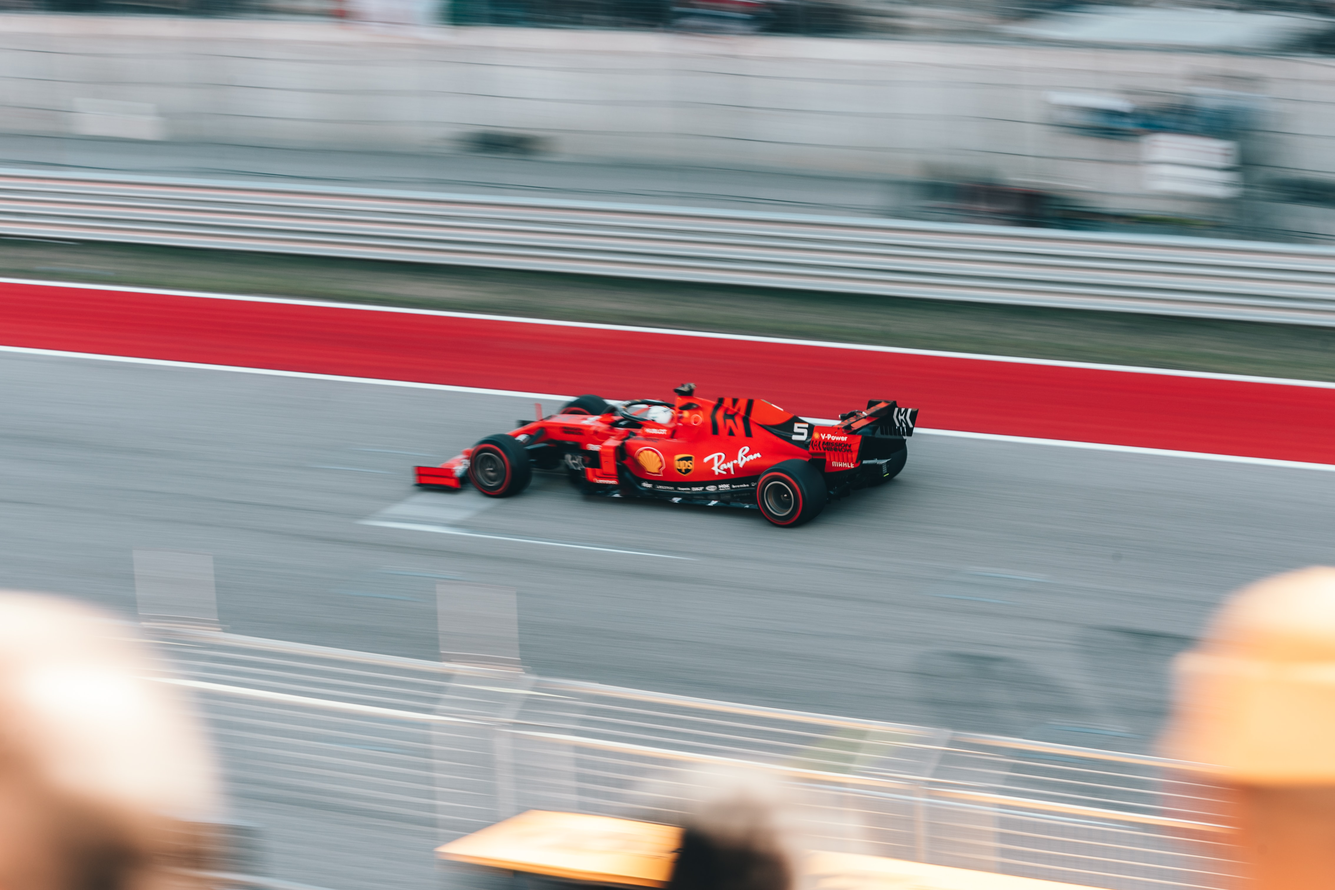
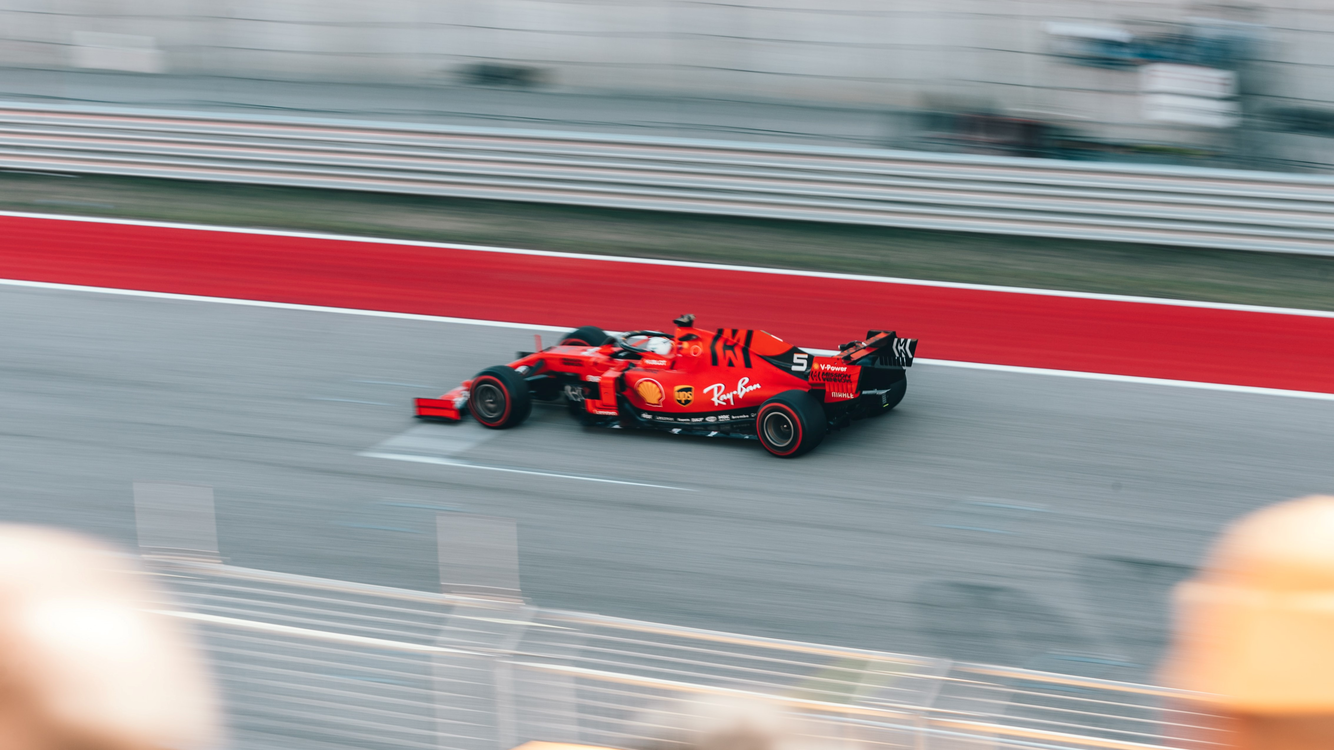
resposive pics, more text

diff --git a/index.html b/index.html
@@ -200,8 +200,8 @@
       <section class="resume-section p-3 p-lg-5 d-flex flex-column" id="skills">
         <div class="my-auto">
           <h2 class="mb-5">Skills</h2>
-          <p class="mb-5">develop content, speak 3 language, time management, experience with react and trails.  great at time management, admin skills
-            I am a seasoned software expert who has developed products for enterprise clients such. </p>
+          <p class="mb-5">I am a junior software developer, currently enrolled in the LEARN academy bootcamp. I have a background in business and customer service, I speak three languages and because of my multicultural background this industry gives me the opportunity to leverage my experience living with and working with a diverse group of people from different backgrounds and cultures. I consider myself a creative person so I tend to enjoy the front end more than the backend. I think I have a lot to bring to the front end with my minimalist style. I also enjoy the back end and view it more of a challenge since it has a lot of problem solving concepts, using more logic and less creativity. Being able to incorporate this in my professional life would be a dream and would fulfill my goal in life.
+          </p>
             <ul>
             <br>
 
@@ -232,73 +232,39 @@
               <i class="devicon-css3-plain-wordmark colored"></i>
             </li>
           </ul>
-
-          <!-- <div class="subheading mb-3">Workflow</div>
+          <br>
+          <div class="subheading mb-3">Transferable skills</div>
           <ul class="fa-ul mb-0">
             <li>
               <i class="fa-li fa fa-check"></i>
-              Mobile-First, Responsive Design</li>
+              Creative thinking</li>
             <li>
               <i class="fa-li fa fa-check"></i>
-              Cross Browser Testing &amp; Debugging</li>
+              Responsibility</li>
             <li>
               <i class="fa-li fa fa-check"></i>
-              Cross Functional Teams</li>
+              Accountability</li>
             <li>
               <i class="fa-li fa fa-check"></i>
-              Agile Development &amp; Scrum</li>
+              Problem solving</li>
+              <li>
+                <i class="fa-li fa fa-check"></i>
+                Co-operation</li>
           </ul>
-        </div> -->
+        </div>
       </section>
 
       <section class="resume-section p-3 p-lg-5 d-flex flex-column" id="interests">
         <div class="my-auto">
           <h2 class="mb-5">Interests</h2>
-          <p>Apart from being a web developer, I enjoy most of my time being outdoors. During the warmer months here in California, I enjoy the beach, hiking, and swimming. I love driving, so cruising along the coast or on an empty highway is a form of meditation for me. </p>
-          <p class="mb-0">During winter, when forced indoors, I tend to watch movies or enjoy a tv show. I am a mean chef, i beat eggs and whip cream. As for sports I enjoy Formula 1 on the weekends and grew up playing soccer so i follow it religiously. </p>
+          <p>Apart from being a web developer, I enjoy most of my time being active. During the warmer months here in California, I enjoy the beach, hiking, and jogging. I love driving, so cruising along the coast is a way for me to clear my mind and relax. Going to museums is another form of therapy that I enjoy, there is something about staring at art that caresses the mind. </p>
+          <p class="mb-0">During the colder weather, if forced indoors, I tend to enjoy casual gaming or binge a tv show. One of my favorite activities is also the big screen, I am a sucker for good cinema so the theater is always a good idea. As for sports I am an avid fan Formula 1 on the weekends and grew up playing soccer so I follow it religiously. </p>
         </div>
         <br><br>
         <div>
-          <img src="img/ferrari_f1.jpg" style="width: 550px">
-          <img src="img/soccer_stadium.jpg" style="width: 650px">
-        </div>
-       
-      </section>
-
-      <!-- <section class="resume-section p-3 p-lg-5 d-flex flex-column" id="awards">
-        <div class="my-auto">
-          <h2 class="mb-5">contact</h2>
-          <ul class="fa-ul mb-0">
-            <li>
-              <i class="fa-li fa fa-envelope text-warning"></i>
-              <a href="mailto:lvtuan11@gmail.com">lvtuan11@gmail.com</a></li> -->
-            <!-- <li>
-              <i class="fa-li fa fa-trophy text-warning"></i>
-              Mobile Web Specialist - Google Certification</li>
-            <li>
-              <i class="fa-li fa fa-trophy text-warning"></i>
-              1<sup>st</sup>
-              Place - University of Colorado Boulder - Emerging Tech Competition 2009</li>
-            <li>
-              <i class="fa-li fa fa-trophy text-warning"></i>
-              1<sup>st</sup>
-              Place - University of Colorado Boulder - Adobe Creative Jam 2008 (UI Design Category)</li>
-            <li>
-              <i class="fa-li fa fa-trophy text-warning"></i>
-              2<sup>nd</sup>
-              Place - University of Colorado Boulder - Emerging Tech Competition 2008</li>
-            <li>
-            <li>
-              <i class="fa-li fa fa-trophy text-warning"></i>
-              1<sup>st</sup>
-              Place - James Buchanan High School - Hackathon 2006</li>
-            <li>
-              <i class="fa-li fa fa-trophy text-warning"></i>
-              3<sup>rd</sup>
-              Place - James Buchanan High School - Hackathon 2005</li> -->
-          </ul>
-        </div>
-      </section>
+          <img src="img/ferrari_f1.jpg" style="width: 49%; height:auto"/>
+          <img src="img/soccer_stadium.jpg" style="width: 49%"; height:auto"/>
+        </div>    
     </div>
 
     <!-- Bootstrap core JavaScript -->
@@ -314,6 +280,6 @@
   </body>
 <br><br>
   <footer>
-    <p class="mb-5"> ©2022 Designed by Tuan Le for Tuan Le with Tuan Le.</p>
+    <p class="mb-5"> ©2022 TUAN  Designed by Tuan Le for Tuan Le in collaboration with Tuan for Tuan Le.</p>
   </footer>
 </html>

diff --git a/css/resume.min.css b/css/resume.min.css
@@ -3,7 +3,7 @@
  * Copyright 2013-2017 Start Bootstrap
  * Licensed under MIT (https://github.com/BlackrockDigital/startbootstrap-resume/blob/master/LICENSE)
  */
-body {
+ body {
     font-family: 'Open Sans', serif;
     padding-top: 54px;
     color: #cacaca
@@ -88,8 +88,8 @@ h2 {
     }
 
     #sideNav .navbar-brand .img-profile {
-        max-width: 15rem;
-        max-height: 15rem;
+        max-width: 13rem;
+        max-height: 13rem;
         border: .15rem solid #f7f1f175
     }
 

diff --git a/css/resume.css b/css/resume.css
@@ -3,7 +3,7 @@
  * Copyright 2013-2017 Start Bootstrap
  * Licensed under MIT (https://github.com/BlackrockDigital/startbootstrap-resume/blob/master/LICENSE)
  */
-body {
+ body {
   font-family: 'Open Sans', serif;
   padding-top: 54px;
   color: #0080ff76; }
